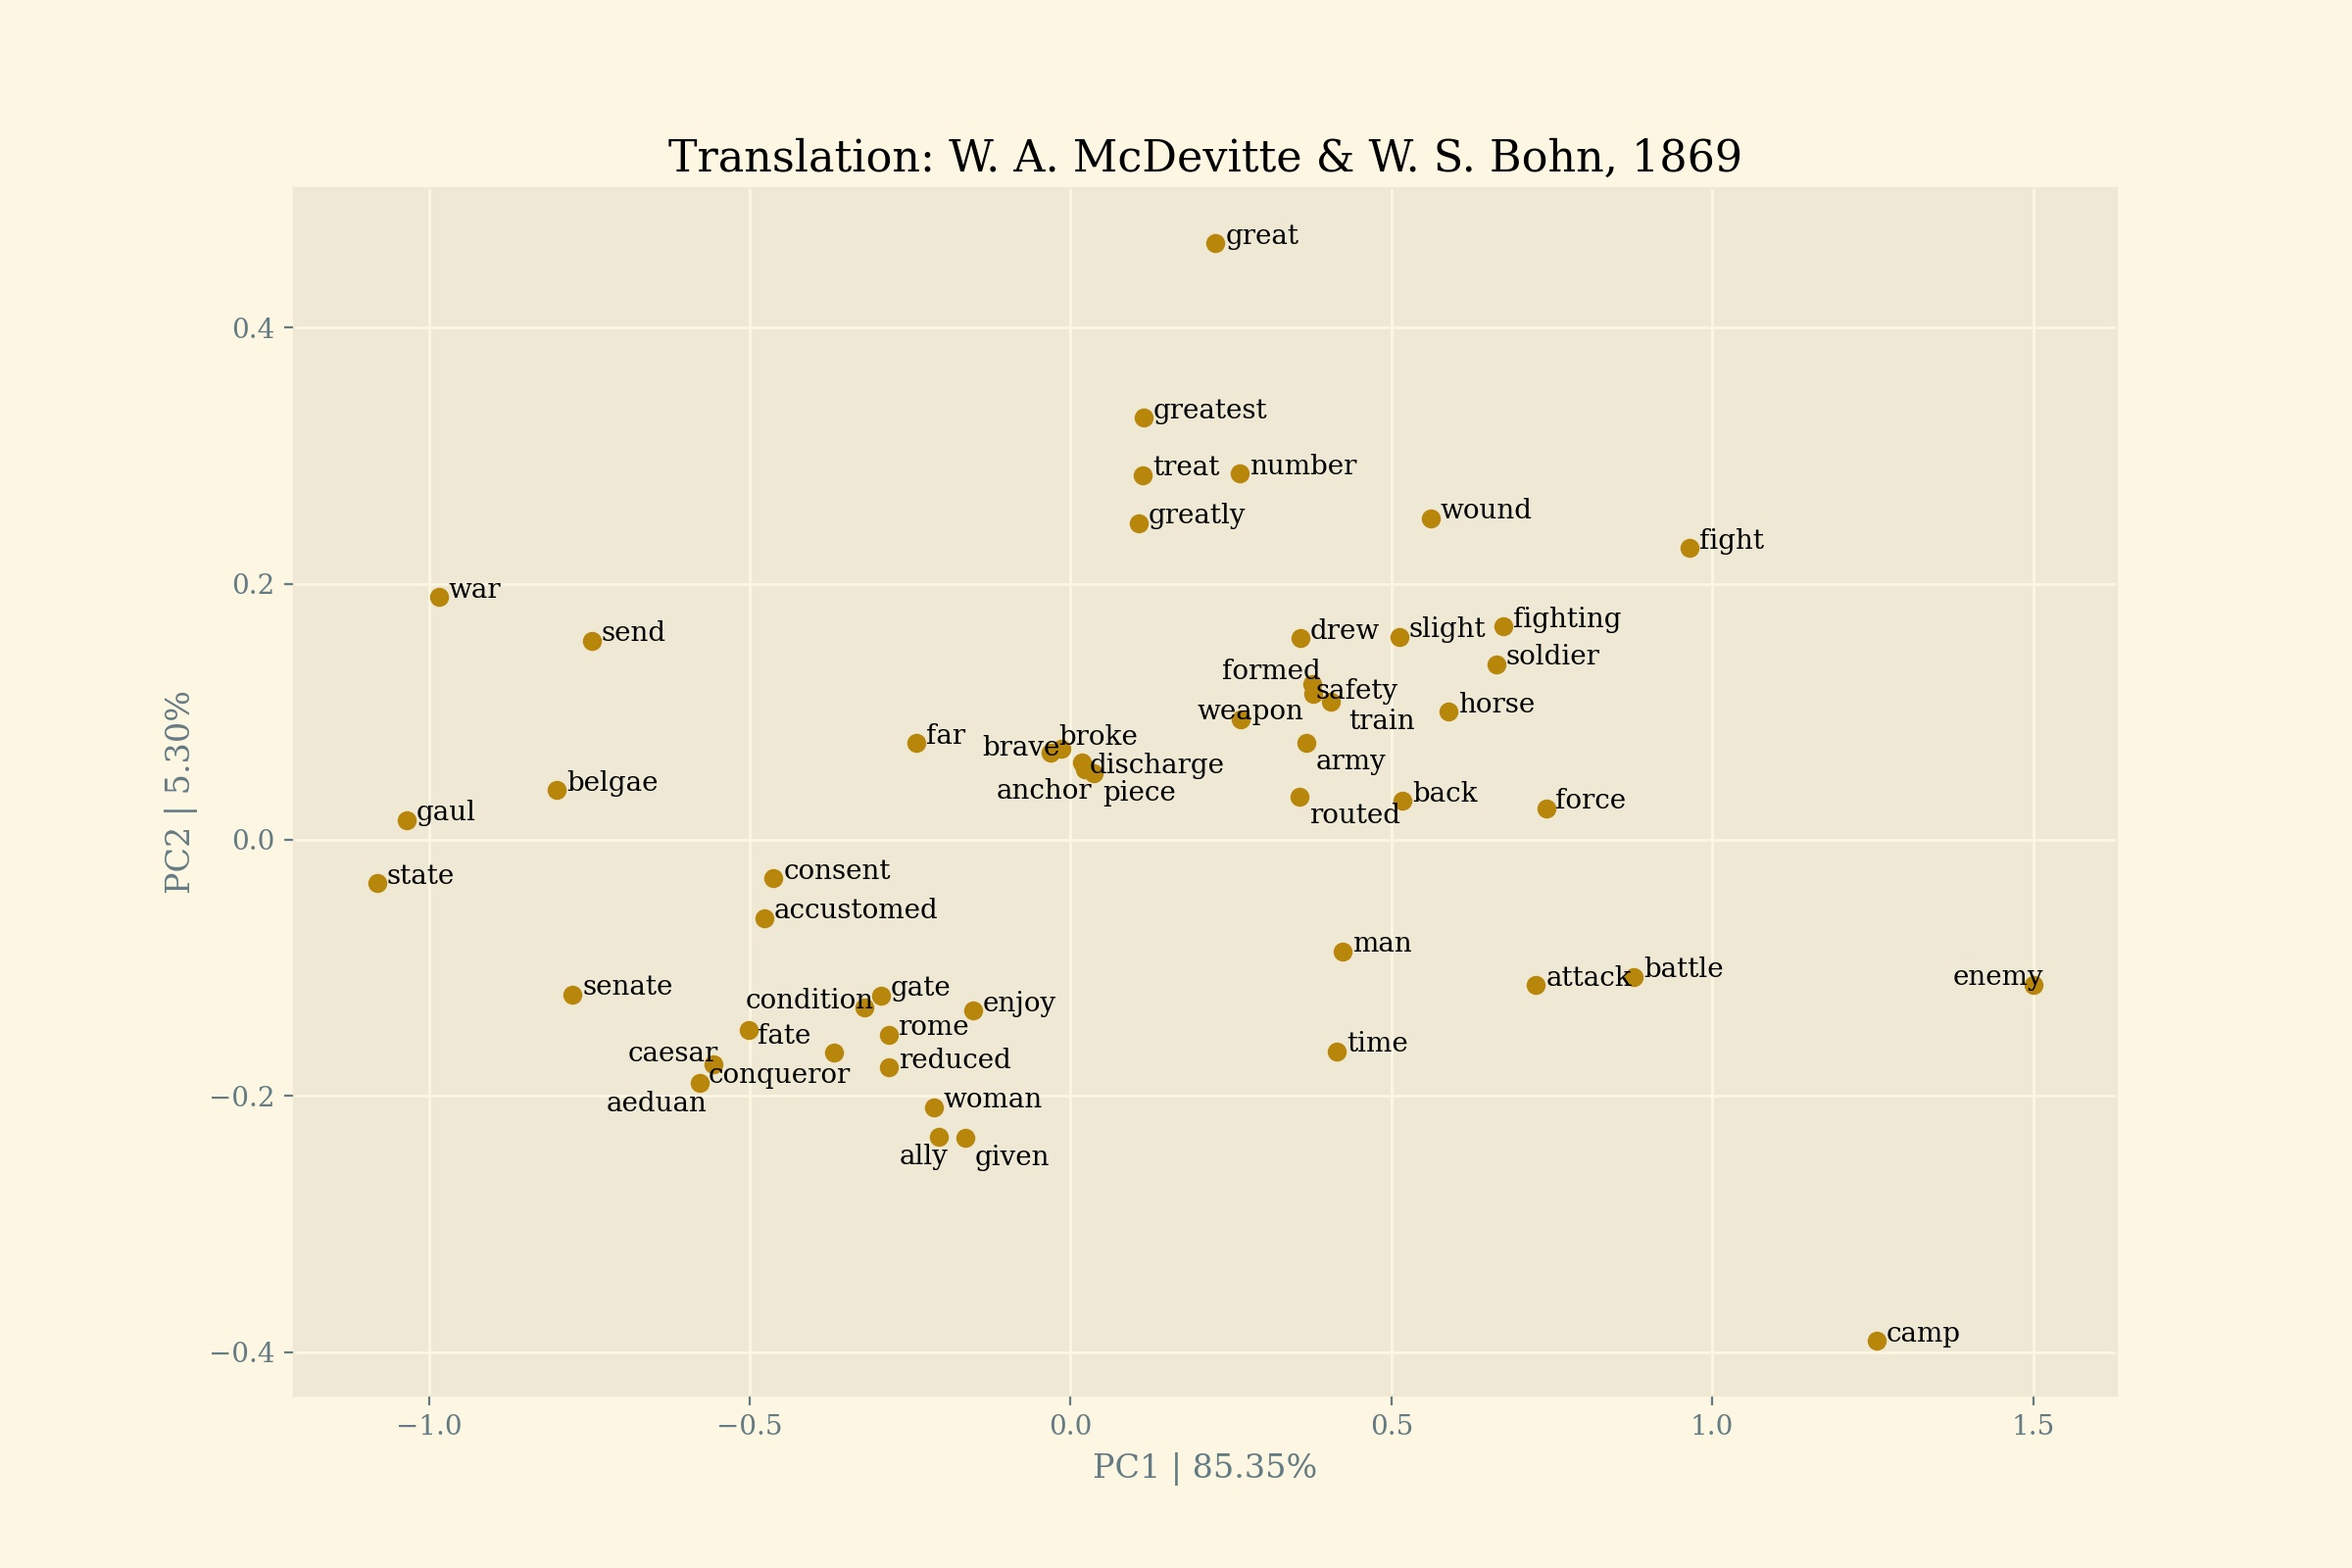
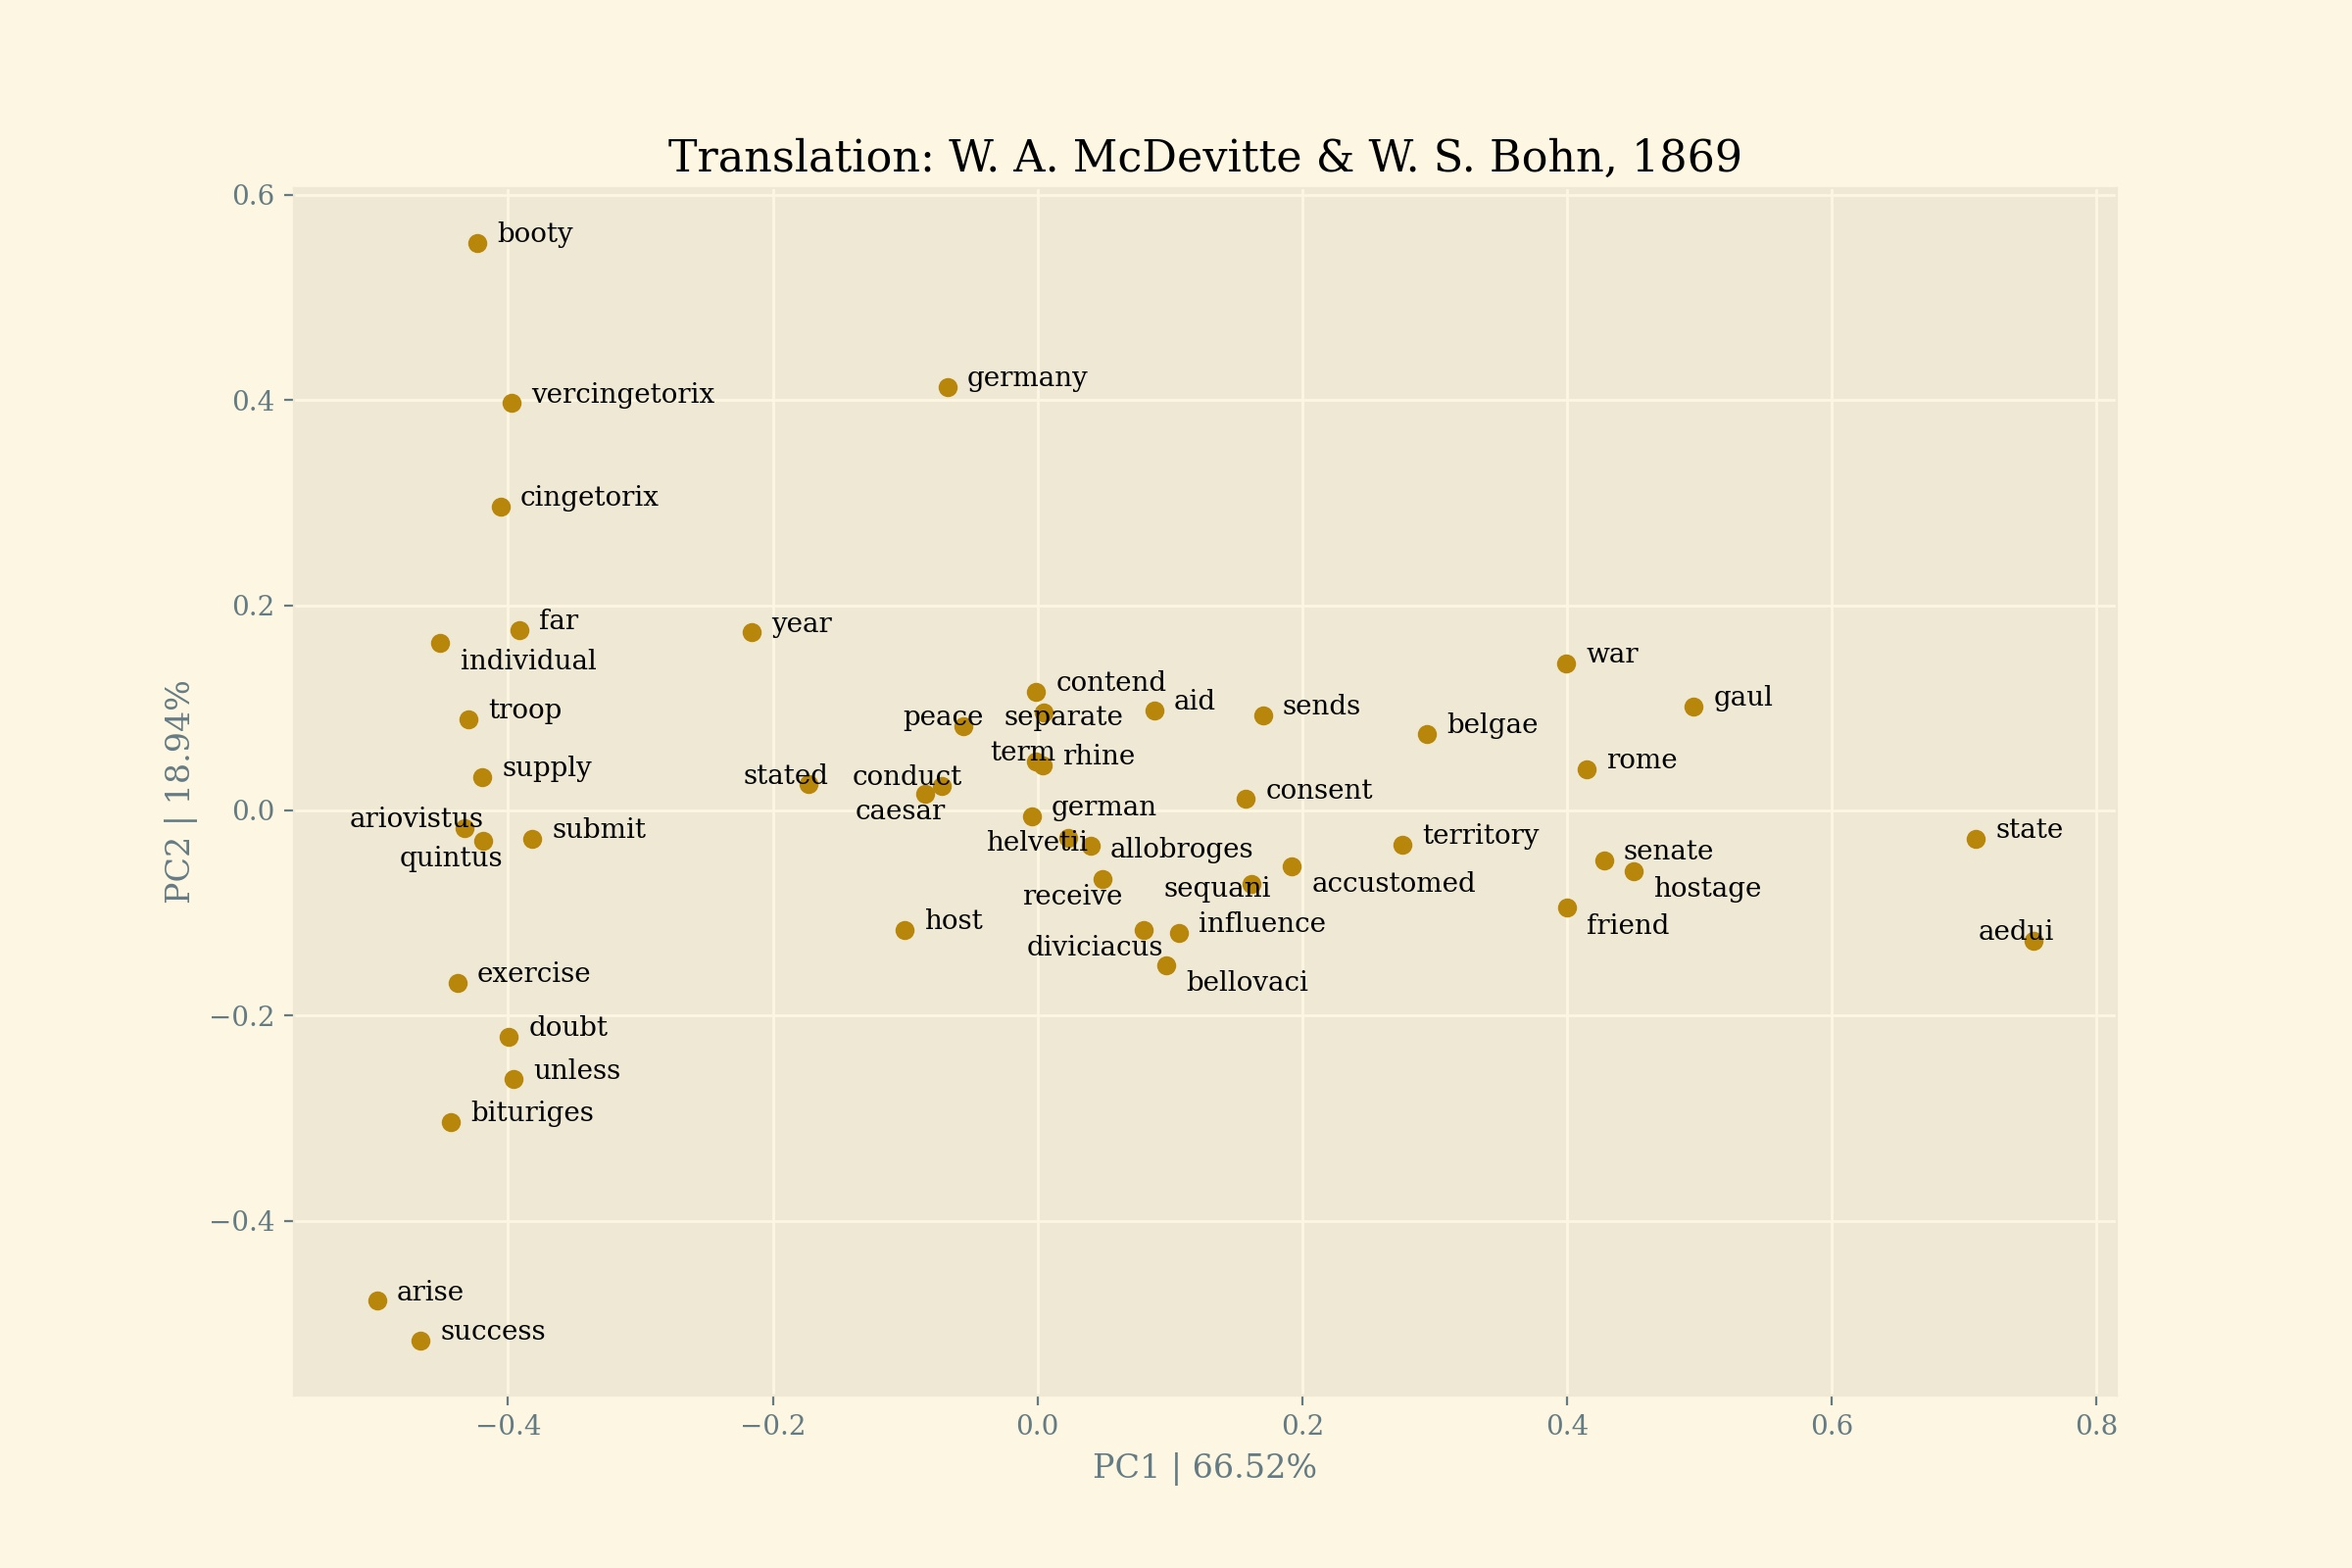
added ability to select keyword set

diff --git a/driver.py b/driver.py
@@ -1,3 +1,4 @@
+from __future__ import annotations
 import sys
 import os 
 import json
@@ -41,18 +42,17 @@ class Driver:
         print()
 
     def run(self, _ = None, __ = None) -> None:
-        #ui.runModes(modes)
-        print("here")
-        translation_path = self.select_translation()
-        if translation_path is None:
-            return
-        with open(os.path.join(self.paths[translation_path], "info.json")) as infile:
-            data = json.load(infile)
-        translations = []
-        for info in data:
-            translations.append(Translation(info, self.paths[translation_path]))
-        translations.sort(key = lambda t: t.year)
-        self.select_mode()(translations, translation_path)
+        while True:
+            translation_path = self.select_translation()
+            if translation_path is None:
+                return
+            with open(os.path.join(self.paths[translation_path], "info.json")) as infile:
+                data = json.load(infile)
+            translations = []
+            for info in data:
+                translations.append(Translation(info, self.paths[translation_path]))
+            translations.sort(key = lambda t: t.year)
+            self.select_mode()(translations, translation_path)
 
     def select_mode(self) -> callable:
         num_modes = len(self.modes)
@@ -74,6 +74,20 @@ class Driver:
             return self.texts[index][1]
         return None
 
+    def select_keywords(self) -> List[str]:
+        keys = list(settings.key_words.keys())
+        num_keys = len(keys)
+        msg = "Select Keyword Set:"
+        for i, key in enumerate(keys, start=1):
+            msg += f"\n   {i}) {key}"
+        back_index = num_keys + 1
+        msg += f"\n   {back_index}) Back"
+        index = ui.getValidInput(msg, dtype=int, valid=range(1, num_keys + 2)) - 1
+        if index != back_index - 1:
+            return settings.key_words[keys[index]]
+        return None
+
+
     def wordclouds(self, translations: list, text_path: str) -> None:
         print("Generating wordclouds for the following translations:")
         for t in translations:
@@ -82,15 +96,18 @@ class Driver:
             graph.wordcloud(t, settings.stopwords, save_path)
 
     def embeddings(self, translations: list, text_path: str, printing: bool = True) -> None:
+        key_words = self.select_keywords()
+        if key_words is None: return
         print("Creating embeddings...")
         for t in tqdm(translations):
             text = t.get_delimited_text()
+            counts = np.zeros((len(key_words), ))
             text = analysis.preprocess_text(text, stopwords = settings.stopwords, replacements = settings.replacements, no_lemmatization = settings.no_lemmatization)
             corpus = []
             for section in text:
+                counts += np.array([section.count(w) for w in key_words])
                 corpus.append(section.split(' '))
-
-            similar_words, all_words, pcs, explained_variance = analysis.analyze_embeddings(corpus, settings.key_words[text_path])
+            similar_words, all_words, pcs, explained_variance = analysis.analyze_embeddings(corpus, key_words)
             all_words, indices = np.unique(all_words, return_index=True)
             pcs = pcs[indices]
             save_path = os.path.join(self.paths["figures"], text_path, "embeddings", "embeddings_" + t.lastname + ".jpg")
@@ -99,8 +116,8 @@ class Driver:
             if printing:
                 print()
                 t.print_info()
-                for k,v in similar_words.items():
-                    print(f"{k}: {v}")
+                for i, (k,v) in enumerate(similar_words.items()):
+                    print(f"{k} ({counts[i]}): {v}")
                 print('-----------------------------------')
 
     def animated_embeddings(self, translations: list, text_path: str, printing = False) -> None:

diff --git a/core/settings.py b/core/settings.py
@@ -6,7 +6,9 @@ stopwords = set(nltk.corpus.stopwords.words('english') +
     ["ye", "thy", "thee", "hast", "chorus", "strophe", "antistrophe", "thou", "pg", "o'er", "chor", "hath", "0", "thine", "chapter"])
 
 no_lemmatization = [
-    'salamis'
+    'salamis',
+    'less',
+    'was'
 ]
 
 replacements = [
@@ -15,15 +17,20 @@ replacements = [
     ("greece", "hellas"),
     ("greeks", "hellene"),
     ("greek", "hellene"),
-    ("persians", "persian")
+    ("persians", "persian"),
+    ("helvetian", "helvetii"),
+    ("aeduan", "aedui"),
+    ("roman", "rome"),
+    ("gallic", "gaul"),
+    ("divitiacus", "diviciacus")
 ]
 
 #----------WORD EMBEDDINGS-------------#
 TOPN = 4
 
 key_words = {
-    'Persai': 
-       ['greece',
+    'Persai': [
+        'greece',
         'greek',
         'persia', 
         'persian', 
@@ -31,20 +38,35 @@ key_words = {
         'woman', 
         'woe', 
         'brave',
-        'glory'],
-    'Gallicum':
-        ['man',
-         'woman',
-         'caesar',
-         'brave',
-         'soldier',
-         'camp',
-         'gaul',
-         'rome',
-         'senate',
-         'enemy',
-         'army',
-         'great', 
-         'war']
+        'glory'
+    ],
+    'Gallicum': [
+        'man',
+        'woman',
+        'caesar',
+        'brave',
+        'soldier',
+        'camp',
+        'gaul',
+        'rome',
+        'senate',
+        'enemy',
+        'army',
+        'great', 
+        'war'
+    ],
+    'States and Characters': [
+        'caesar',
+        'gaul',
+        'vercingetorix',
+        'aedui',
+        'diviciacus',
+        'helvetii',
+        'german',
+        'sequani',
+        'ariovistus',
+        'bituriges',
+        'belgae'
+    ]
 }
 

diff --git a/core/analysis.py b/core/analysis.py
@@ -79,7 +79,6 @@ def analyze_embeddings(text: list, key_words: List[str]):
                     # iter=100)
 
     semantically_similar_words = {words: [item[0] for item in model.wv.most_similar([words], topn=4)] for words in key_words}
-
     all_words = np.array(sum([[k] + v for k, v in semantically_similar_words.items()], []))
     word_vectors = model.wv[all_words]
     pca = PCA(n_components = 2)

diff --git a/core/translation.py b/core/translation.py
@@ -21,6 +21,9 @@ class Translation:
     def get_info(self) -> str:
         return self.translator + ", " + str(self.year)
 
+    def get_text(self) -> str:
+        return self.text 
+
     def get_delimited_text(self) -> List[str]:
         return self.text.split(self.delimiter)
     
